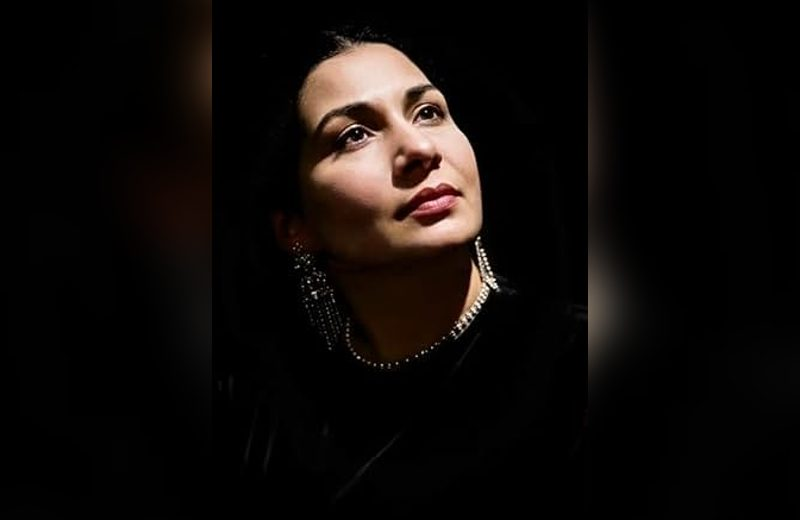
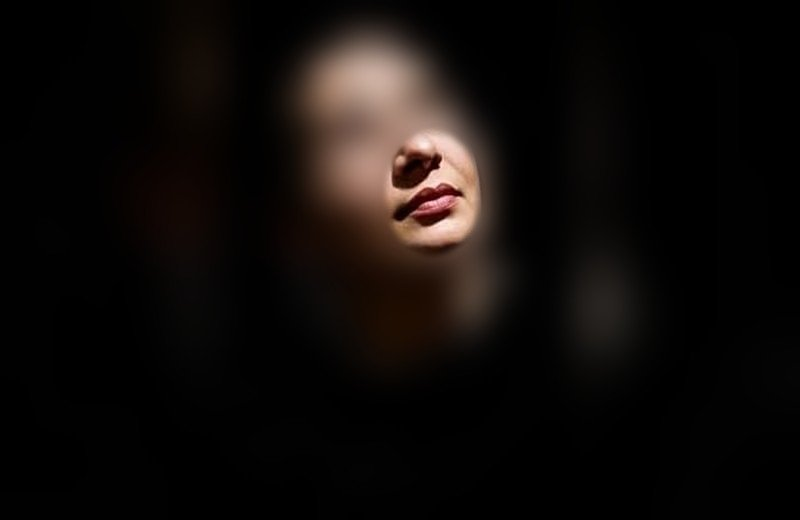
Blur the women in the live celebrity pictures (approved modesty blur, side-face fallback)
Claude-Session: https://claude.ai/code/session_01MyhzyP5SMrsYs3pTaQnq6P

diff --git a/scripts/media-tools/modest_blur.py b/scripts/media-tools/modest_blur.py
@@ -5,6 +5,14 @@ def modest(src, dst):
     g = cv2.equalizeHist(cv2.cvtColor(im, cv2.COLOR_BGR2GRAY))
     det = cv2.CascadeClassifier(cv2.data.haarcascades + 'haarcascade_frontalface_default.xml')
     faces = det.detectMultiScale(g, 1.08, 6, minSize=(w // 12, w // 12))
+    # fallbacks: a looser frontal detector, then side faces (both directions)
+    for name, nb in (('haarcascade_frontalface_alt2.xml', 3), ('haarcascade_profileface.xml', 3)):
+        if len(faces): break
+        c = cv2.CascadeClassifier(cv2.data.haarcascades + name)
+        faces = c.detectMultiScale(g, 1.05, nb, minSize=(w // 14, w // 14))
+        if not len(faces) and 'profile' in name:
+            fl = c.detectMultiScale(cv2.flip(g, 1), 1.05, nb, minSize=(w // 14, w // 14))
+            faces = [(w - x - fw, y, fw, fh) for (x, y, fw, fh) in fl]
     if len(faces) == 0: return False
     mask = np.zeros((h, w), np.float32)
     big = max(f[2] for f in faces)
